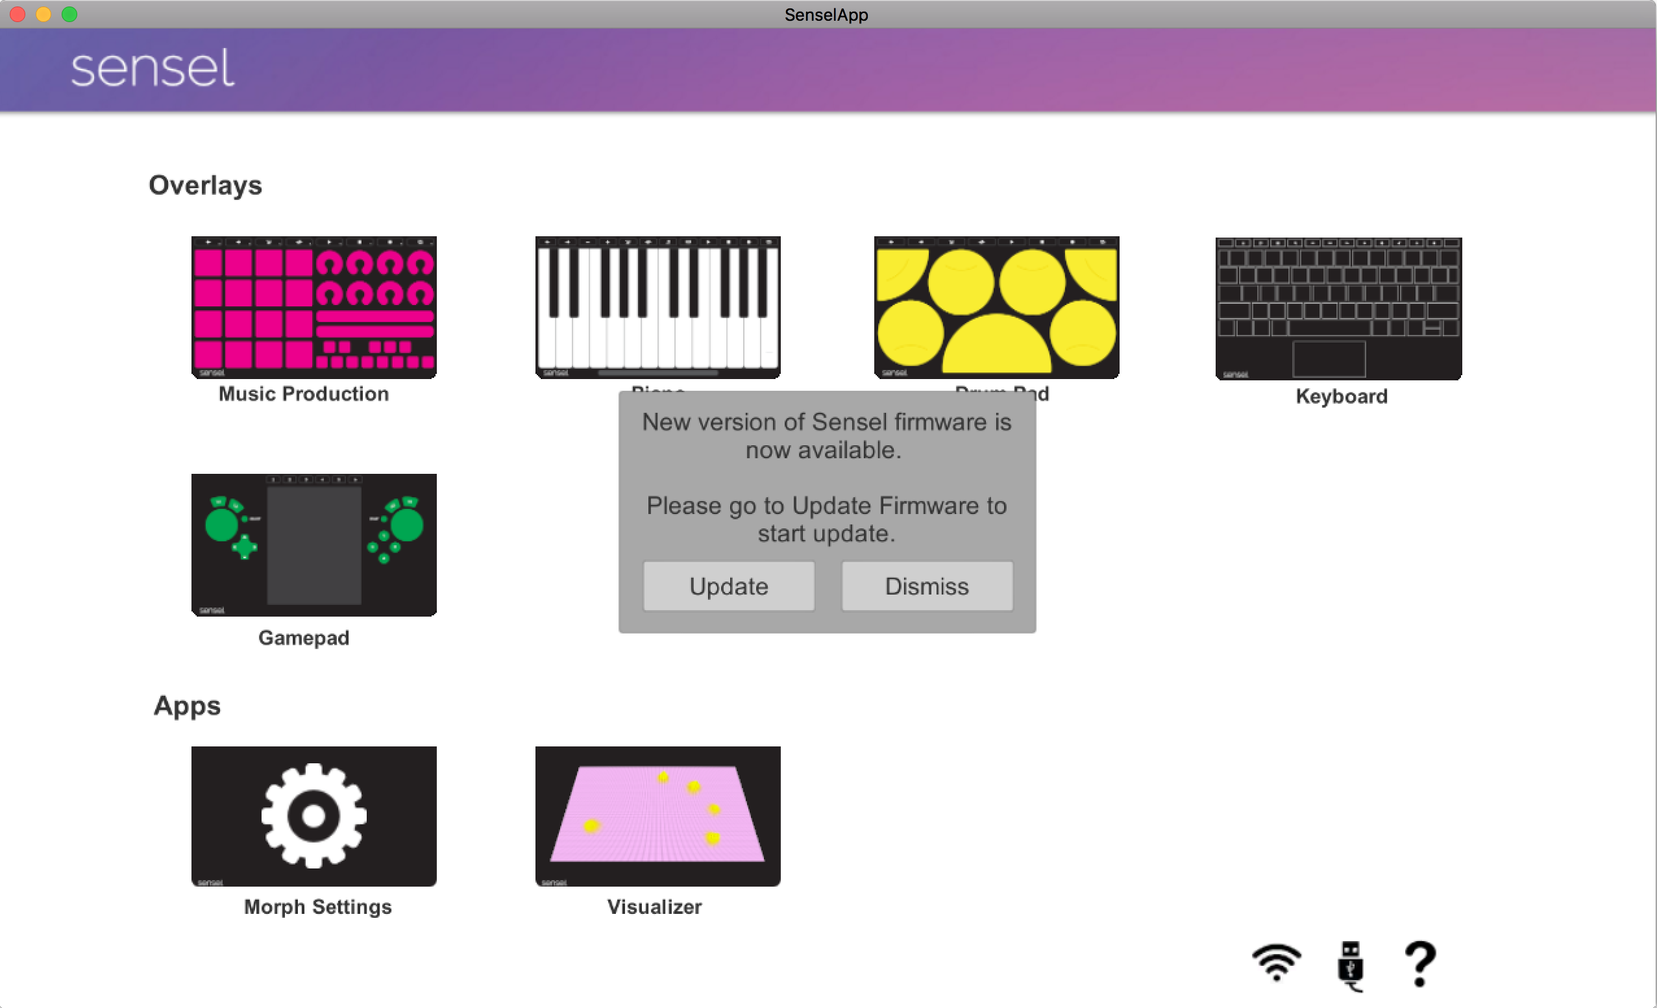
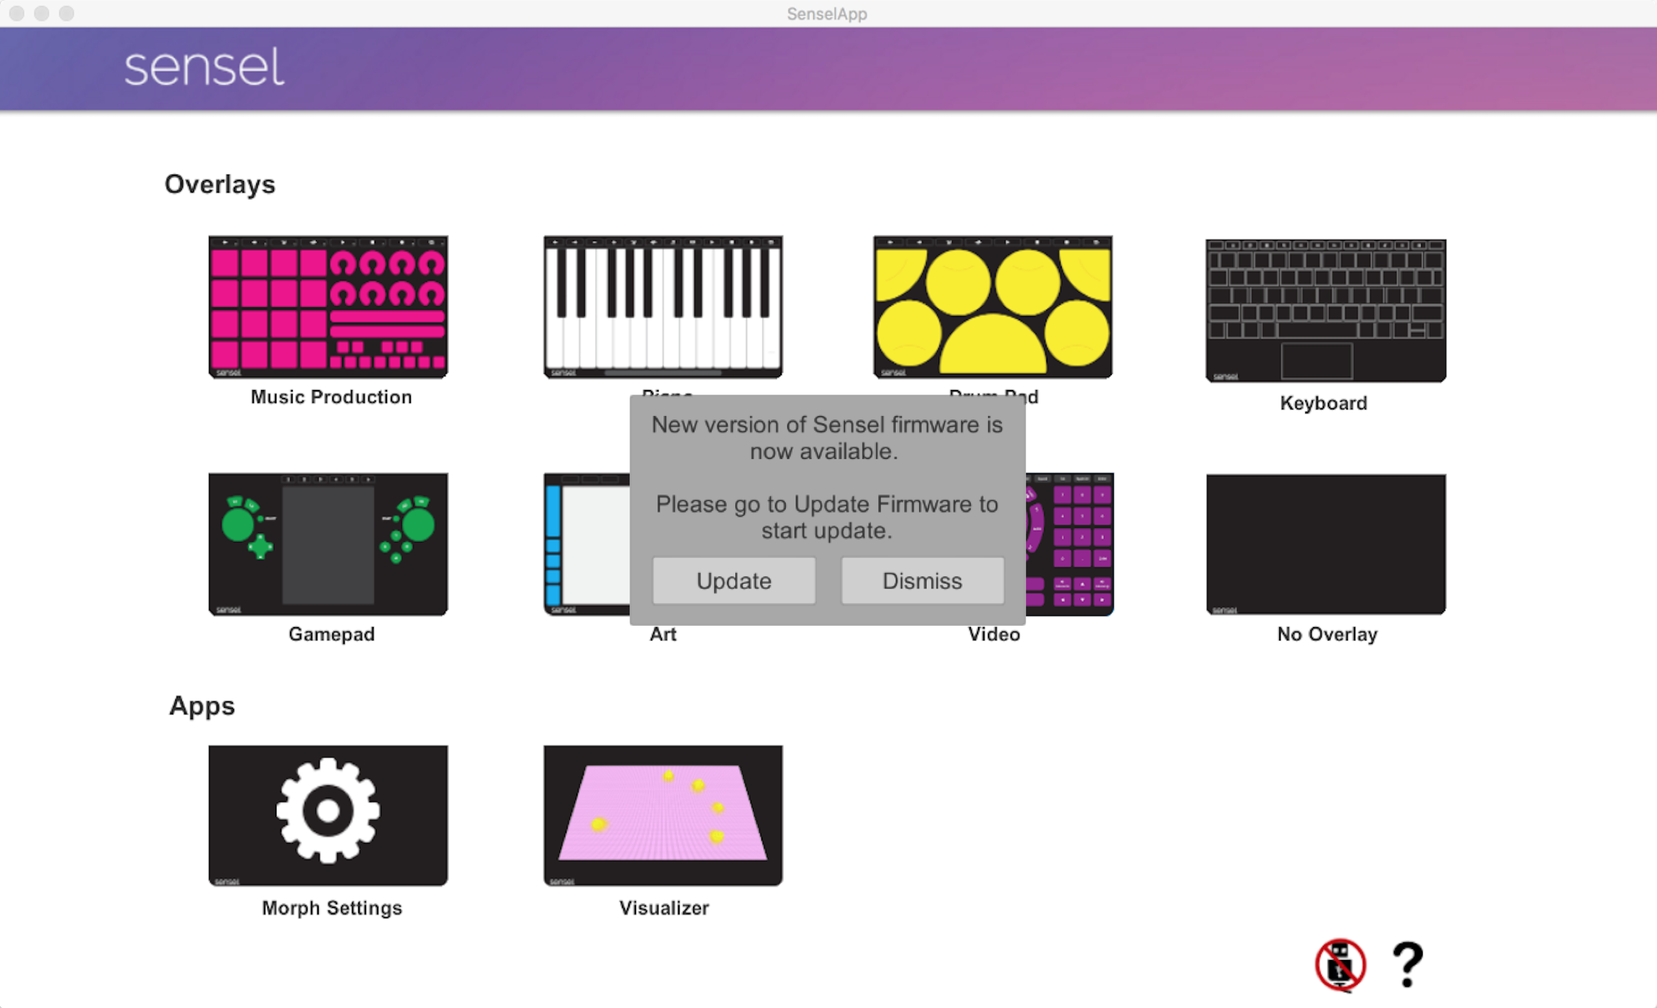
Video Editing Overlay Documentation
Video Editing Overlay Documentation, new Sensel App images, removed wifi symbol, reorganized morph, added advanced to menu

diff --git a/docs/morph.md b/docs/morph.md
@@ -140,67 +140,6 @@ The black surface of the pressure sensor is made of durable PET (Polyethylene Te
 
 Thickness measurements are with the rubber feet. Subtract 0.75 mm for thickness measurements without the rubber feet.
 
-## SenselApp Software
-The Sensel App is used to flash firmware, configure, calibrate, and confirm the functions of the Morph. You can also use it to customize and re-map button functionality on your Overlays. Download the software for Windows or macOS from the [Sensel website](http://sensel.com/start).
-
-In order to use any of the features in the Sensel App, you'll need to have a wired connection between your Morph and computer. A wireless connection is not sufficient for working with the Sensel App.
-
-### Home
-The home page of the Sensel App allows you to select a task. You can edit the output of Overlays, update firmware, and visualize the raw data from pressure input on the Morph.
-
-![Sensel Sensel App home](img/morphapp_home.jpg)
-
-### Icons
-You'll notice 2-3 icons in the bottom right of the application window. Here's what they mean:
-
-* ![Sensel Sensel App home](img/morph_app_icon_wifi.jpg) - active wifi connection for updating app and firmware
-* ![Sensel Sensel App home](img/morph_app_icon_usb.jpg) - active usb connection with Morph
-* ![Sensel Sensel App home](img/morph_app_icon_help.jpg) - load help for app
-
-If there's a red circle and slash, it means the connection is inactive or broken. If you have the Morph connected via USB and you see a red circle/slash over the USB icon, double check your USB connection or try a different cable.
-
-### Overlay Mapper
-
-#### Music Overlays
-![Sensel Morph Overlay mapper edits settings](img/morphapp_editmidi.jpg)
-
-The Music Production, Drum, and Piano Overlays can be completely modified from their default settings to work however you’d like them to.
-
-When you select a music Overlay from the Sensel App, you'll open a screen where you can click on the different buttons or regions to modify the MIDI notes sent from the pads. 
-
-Use the inspector's menu to select a different note value for each pad you want to change. You can save the settings to a map preset. 
-
-When finished editing, be sure to click "Send Map to Morph" to modify the settings.
-
-#### QWERTY (+ AZERTY and DVORAK) Overlay
-![Sensel Morph Keyboard Overlay editor](img/morphapp_editqwerty.jpg)
-
-In a way, the mapper for the QWERTY Overlay is very similar to the music editors. However, instead of modifying MIDI notes, you are modifying the key event codes from each stroke. A list of keyboard codes can be found at [this link.](https://en.wikipedia.org/wiki/ASCII#Code_chart)
-
-<!-- More importantly, the QWERTY Overlay mapper allows you to set the operating system preference, which impacts how the control, option, command, and function keys will behave on the Overlay. Use the menu to set your preference and click "Send to Morph". -->
-
-##### Set Keyboard Layout
-The Morph will detect the Overlay attached to the device, but you will need to change the desired layout for each computer or smartphone. Following are some external links to guides (and opinions) on changing your keyboard layout for different operating systems:
-
-* [Windows 10](http://www.windowscentral.com/how-change-your-keyboard-layout-windows-10)
-* [macOS](http://atmac.org/dvorak-keyboard-layouts-easier-on-the-fingers)
-* [Ubuntu](http://www.wikihow.com/Change-Keyboard-Layout-in-Ubuntu)
-* [Android](https://rietta.com/blog/2013/09/20/is-the-colemak-or-dvorak-keyboard-layout-best-for-you/)
-* [iOS](https://www.igeeksblog.com/how-to-change-keyboard-layout-on-iphone-and-ipad/)
-
-#### Gamepad Overlay
-![Sensel Morph Gamepad Overlay editor](img/morphapp_editgame.jpg)
-
-Some games support HID gamepad events without any emulation, but do not let you customize the button values in the game. As a result, the controller might work, but the buttons all do the wrong thing! The Sensel App lets you change the HID gamepad value for each button of the Gamepad Overlay so the controls can match the gameplay.
-
-### Visualizer
-![Sensel Morph Overlay editor](img/morphapp_viz.jpg)
-Use the Visualizer to view the raw pressure information coming from the Morph's sensor. The visualizer is more than entertaining, it's a look behind the scenes of what happens when you are using the Morph. 
-
-You can see the effects of using different materials between a stylus (or some other actuator, like a finger) and pressure surface. You can even see that very sharp styli won't generate much of a pressure reading, and benefit greatly from a material or overlay. 
-
-The curious and creative user will find great satisfaction in the Visualizer!
-
 ## Overlays
 
 ### QWERTY
@@ -235,6 +174,47 @@ The 16 Pad grid sends on MIDI Channel 2, the controls send on MIDI Channel 2, th
 
 The play, stop, and record buttons send MIDI Machine Control (MMC) commands to enable those features. Some software products, such as Ableton Live, do not recognize MMC, so they will seem to not work in those cases.
 
+### Video Editing
+
+![Sensel Morph Video Editing Overlay callouts](img/overlay_video.jpg)
+
+#### Overview
+
+The Video Editing Overlay is a control surface that sends keyboard and mouse events to enable professional video editing.
+
+#### Setup
+
+By default, the Sensel Morph works with Adobe Premiere on Windows. For Premiere on macOS, the macOS Sensel App contains the macOS mapping which can be sent to the Morph. Open the Video overlay in the Sensel App and click the "Send Map to Morph" button to send the Map. 
+
+If you require a specific mapping for your program, you can use the Sensel App to create your own mappings for each program.
+
+If you are using Premiere CC, you may need to add a keyboard shortcut in Premiere to change focus to the timeline panel, which has been removed in some versions. By default, the Sensel Morph will send Shift+3 when you click the timeline button. 
+
+No driver is required for the Video Editing Overlay.
+
+#### Controls
+
+##### Jog Wheel and Navigation Controls
+
+The central Jog Wheel and surrounding navigation controls serve as the primary means of moving along a video timeline. 
+
+The Jog Wheel moves one frame for each of the eight detents around the knob. You can modify the speed of the jog wheel by pressing the modifier keys.
+
+The Shuttle Buttons are pressure sensitive buttons that repeatedly press a key at different pressure levels, allowing you to shuttle quickly along the timeline. When you release the Shuttle Button, a halt key is sent. In Premiere, J or L is sent as you push on the Shuttle Button and K is sent when you release the Shuttle Button.
+
+The Video, Audio, and Zoom sliders all send key events as you move along the slider. In Premiere, the sliders adjust the size of the video, audio, and zoom of the timeline elements. 
+The Navigation Slider is a slider that sends scroll events for moving along the timeline. In Premiere, the timeline requires you to click on the timeline before you can scroll. The Navigation Slider is not remappable.
+
+The other buttons in the central navigation area all send key events that are used to move through the timeline.
+
+##### Jog Wheel Modifiers
+
+The Jog Wheel Modifiers change the function of the Jog Wheel while you hold down the buttons. By default, these modifiers are set to Slip, Slide, and Nudge in Premiere and can be customized using the Sensel App.
+
+##### Other Control Buttons
+
+The rest of the control buttons on the Video Editing Overlay send key commands that can be customized using the Sensel App. 
+
 ### Gaming
 ![Sensel Morph Gaming Overlay callouts](img/overlay_gaming_callouts.jpg)
 
@@ -264,9 +244,6 @@ Some browsers support gamepad input using the Gamepad API. Gamepad support can b
 
 ##### Bluetooth
 Gamepad-over-Bluetooth will be supported in future releases.
-
-### Media Editing
-The Media Editing Overlay is used for editing video and sound.
 
 ### Art
 ![Sensel Morph Art Overlay callouts](img/overlay_art_callouts.jpg)
@@ -316,86 +293,6 @@ All buttons are re-mappable with the SenselApp. Default behaviors provide popula
 * **Function Buttons** - are available for your most common functions. By default these three buttons are are mapped to Shift, Command, and Option in OS X and Shift, Ctrl, and Alt in Windows.
 * **Navigation Button** - is mapped to the spacebar for easy navigation in Adobe products.
 
-#### Art Software Setups
-The basic strategy behind setting up your software to work with the Morph is to understand what parameters come from the Morph and how to apply them to brush properties. In general, there are three dimensions that come from a USB stylus tablet: **Pressure**, **Tilt**, and **Rotation** (or Bearing). 
-
-In Morph's unique Brush Mode, you want your software brush to adapt to the size of the brush or stylus you are applying to the Morph. This is reported on the "Tilt" channel, since traditional tablets use tilt to affect brush size. Pressure is best mapped to the brush opacity to emulate paint or ink density. Rotation is ideally mapped to brush angle when using software brushes that are non-round. 
-
-Using the Stylus Mode, you can map Pressure and Rotation to your brushes, however, there is no Tilt reported from the Morph. 
-
-##### Corel Painter
-[Corel Painter](http://corel.com) offers a vast array of options for brushes, allowing for models of oils, gels, inks, charcoal, airbrush, and more. These settings are created in the Brushes Control Panel, which has several sub-tabs for the various properties. 
-
-The first thing you'll need to do is make sure you have the correct tablet type selected in Corel's preferences. Go to the **Edit** menu and select **Preferences**, then select the **Tablet** panel. Make sure **"RTS-compatible Device"** is selected:
-
-![Corel Painter Brush Controls](img/overlay_art_corel_tabletprefs.jpg)
-
-Now you are ready to modify your brushes. Open the Brush control panel from the **Window->Brushes Control Panels->General** menu, or use **CTL-b**. 
-As an example, you can quickly set up a brush for Morph's brush mode using:
-* Dab type: flat
-* Opacity Expression to Pressure
-* Size Expression to Tilt
-* Angle Expression to Bearing
-
-![Corel Painter Brush Controls](img/overlay_art_corel_brushes.jpg)
-
-You may also want to refine the "feel" of your brush with the Brush Tracking curves. Go to **Edit->Preferences->Brush Tracking** and follow the instructions to make a brush feel natural.
-
-![Corel Painter Brush Controls](img/overlay_art_corel_brush_tracking.jpg)
-
-##### Adobe Photoshop
-[Adobe Photoshop](http://adobe.com/photoshop) of course goes beyond photo editing and provides several options for modelling different art media - airbrush, oils, watercolors, and more. 
-
-Select the Brush tool from Photoshop's tools pallete:
-
-![Adobe Photoshop Tools](img/overlay_art_ps_tools.jpg)
-
-Now you can open the Brush window from the Windows menu and use the Shape Dynamics and Transfer brush properties to apply the Morph's Pressure and Rotation to the brush:
-
-![Adobe Photoshop Tools](img/overlay_art_ps_rotation.jpg)
-![Adobe Photoshop Tools](img/overlay_art_ps_pressure.jpg)
-
-Depending on the desired effect, pressure can be applied to Opacity or Flow. 
-
-##### Adobe Illustrator
-[Adobe Illustrator](http://adobe.com/illustrator)
-
-Adobe Illustrator is a fully featured illustration program, with several different brush options and types. Depending on the chosen brush, there are different places to set up the Morph's Pressure, Rotation, and Tilt data. Below are screen caps of several places you can setup your Morph to interact directly with Brush properties. As you'll see, these options are generally found by double-clicking on the brush in the Brush Window.:
-
-First, be aware that there are a couple different types of brush in Illustrator: the Paintbrush and the Blob Brush.
-
-![Adobe Illustrator](img/overlay_art_ai_brushtypes.jpg)
-
-Brush selection happens in the Brush Library and Brushes windows. If the Paintbrush is selected (not Blob Brush), you can access the Brush Options from the Brush window hamburger menu:
-
-[Adobe Illustrator](img/overlay_art_ai_brushes_opt.jpg)
-
-Double clicking on the top brushes in the brush window opens up the Caligraphic Options:
-
-![Adobe Illustrator](img/overlay_art_ai_calig_options.jpg)
-
-Double clicking on an Art Brush in the brush window opens up Art Brush Options:
-
-![Adobe Illustrator](img/overlay_art_ai_artbrush_options.jpg)
-
-If the Blob Brush is selected in Illustrator's tools, double clicking on that will pull up some more options
-
-![Adobe Illustrator](img/overlay_art_ai_blob_options.jpg)
-
-##### Sketchbook Pro
-
-For the most part, Sketchbook only responds to the Pressure and Tilt parameters from a tablet. You can create a new brush using the Circle menu in the Brush Library:
-
-![Autodesk Sketchbook Pro](img/overlay_art_skbook_newbrush.jpg)
-
-Then, double-click on the new brush (or an existing one), and modify its properties. In this example, the minimum and maximum values for size, opacity, and flow have been modified to respond to pressure. Set min and max to the same value to have the parameter unaffected by pressure.
-
-![Autodesk Sketchbook Pro](img/overlay_art_skbook_pressure.jpg)
-
-Some brushes will respond to tilt, which the Morph uses to send stylus size in Brush Mode. You can use this parameter in some brushes to interesting effect:
-
-![Autodesk Sketchbook Pro](img/overlay_art_skbook_tilt.jpg)
-
 <!-- 
 Lightroom
 GIMP
@@ -407,6 +304,67 @@ Clipstudio Paint
 ![Sensel Morph Innovator Overlay callouts](img/overlay_innovator_callouts.jpg)
 
 Your turn to make an Overlay! The Innovator's Kit works with the API. Included in the Kit is a simple UART cable which turns the microUSB port on the Morph into a UART connection for microcontrollers.
+
+
+## SenselApp Software
+The Sensel App is used to flash firmware, configure, calibrate, and confirm the functions of the Morph. You can also use it to customize and re-map button functionality on your Overlays. Download the software for Windows or macOS from the [Sensel website](http://sensel.com/start).
+
+In order to use any of the features in the Sensel App, you'll need to have a wired connection between your Morph and computer. A wireless connection is not sufficient for working with the Sensel App.
+
+### Home
+The home page of the Sensel App allows you to select a task. You can edit the output of Overlays, update firmware, and visualize the raw data from pressure input on the Morph.
+
+![Sensel Sensel App home](img/morphapp_home.jpg)
+
+### Icons
+You'll notice 2 icons in the bottom right of the application window. Here's what they mean:
+
+* ![Sensel Sensel App home](img/morph_app_icon_usb.jpg) - active usb connection with Morph
+* ![Sensel Sensel App home](img/morph_app_icon_help.jpg) - load help for app
+
+If there's a red circle and slash, it means the connection is inactive or broken. If you have the Morph connected via USB and you see a red circle/slash over the USB icon, double check your USB connection or try a different cable.
+
+### Overlay Mapper
+
+#### Music Overlays
+![Sensel Morph Overlay mapper edits settings](img/morphapp_editmidi.jpg)
+
+The Music Production, Drum, and Piano Overlays can be completely modified from their default settings to work however you’d like them to.
+
+When you select a music Overlay from the Sensel App, you'll open a screen where you can click on the different buttons or regions to modify the MIDI notes sent from the pads. 
+
+Use the inspector's menu to select a different note value for each pad you want to change. You can save the settings to a map preset. 
+
+When finished editing, be sure to click "Send Map to Morph" to modify the settings.
+
+#### QWERTY (+ AZERTY and DVORAK) Overlay
+![Sensel Morph Keyboard Overlay editor](img/morphapp_editqwerty.jpg)
+
+In a way, the mapper for the QWERTY Overlay is very similar to the music editors. However, instead of modifying MIDI notes, you are modifying the key event codes from each stroke. A list of keyboard codes can be found at [this link.](https://en.wikipedia.org/wiki/ASCII#Code_chart)
+
+<!-- More importantly, the QWERTY Overlay mapper allows you to set the operating system preference, which impacts how the control, option, command, and function keys will behave on the Overlay. Use the menu to set your preference and click "Send to Morph". -->
+
+##### Set Keyboard Layout
+The Morph will detect the Overlay attached to the device, but you will need to change the desired layout for each computer or smartphone. Following are some external links to guides (and opinions) on changing your keyboard layout for different operating systems:
+
+* [Windows 10](http://www.windowscentral.com/how-change-your-keyboard-layout-windows-10)
+* [macOS](http://atmac.org/dvorak-keyboard-layouts-easier-on-the-fingers)
+* [Ubuntu](http://www.wikihow.com/Change-Keyboard-Layout-in-Ubuntu)
+* [Android](https://rietta.com/blog/2013/09/20/is-the-colemak-or-dvorak-keyboard-layout-best-for-you/)
+* [iOS](https://www.igeeksblog.com/how-to-change-keyboard-layout-on-iphone-and-ipad/)
+
+#### Gamepad Overlay
+![Sensel Morph Gamepad Overlay editor](img/morphapp_editgame.jpg)
+
+Some games support HID gamepad events without any emulation, but do not let you customize the button values in the game. As a result, the controller might work, but the buttons all do the wrong thing! The Sensel App lets you change the HID gamepad value for each button of the Gamepad Overlay so the controls can match the gameplay.
+
+### Visualizer
+![Sensel Morph Overlay editor](img/morphapp_viz.jpg)
+Use the Visualizer to view the raw pressure information coming from the Morph's sensor. The visualizer is more than entertaining, it's a look behind the scenes of what happens when you are using the Morph. 
+
+You can see the effects of using different materials between a stylus (or some other actuator, like a finger) and pressure surface. You can even see that very sharp styli won't generate much of a pressure reading, and benefit greatly from a material or overlay. 
+
+The curious and creative user will find great satisfaction in the Visualizer!
 
 ## Bluetooth connection
 The Sensel Morph is a Bluetooth 4.0 LE wireless device. This means it can function as a wireless controller for your music, drawing, or writing.
@@ -709,6 +667,86 @@ Select the "Sync" tab and add the Sensel Morph to at least one of the External C
 ![Propellerheads Reason Channel Direction for Sensel Morph Bluetooth connection](img/reason_blemidi_hw.jpg)
 
 Now you can use the Hardware device in the Reason Rack and click the *ADVANCED MIDI* button to expose the selectors. It is here that you can map MIDI channels (and thereby different Overlays) from the Morph to different devices in your rack.
+
+### Art Software Setups
+The basic strategy behind setting up your software to work with the Morph is to understand what parameters come from the Morph and how to apply them to brush properties. In general, there are three dimensions that come from a USB stylus tablet: **Pressure**, **Tilt**, and **Rotation** (or Bearing). 
+
+In Morph's unique Brush Mode, you want your software brush to adapt to the size of the brush or stylus you are applying to the Morph. This is reported on the "Tilt" channel, since traditional tablets use tilt to affect brush size. Pressure is best mapped to the brush opacity to emulate paint or ink density. Rotation is ideally mapped to brush angle when using software brushes that are non-round. 
+
+Using the Stylus Mode, you can map Pressure and Rotation to your brushes, however, there is no Tilt reported from the Morph. 
+
+#### Corel Painter
+[Corel Painter](http://corel.com) offers a vast array of options for brushes, allowing for models of oils, gels, inks, charcoal, airbrush, and more. These settings are created in the Brushes Control Panel, which has several sub-tabs for the various properties. 
+
+The first thing you'll need to do is make sure you have the correct tablet type selected in Corel's preferences. Go to the **Edit** menu and select **Preferences**, then select the **Tablet** panel. Make sure **"RTS-compatible Device"** is selected:
+
+![Corel Painter Brush Controls](img/overlay_art_corel_tabletprefs.jpg)
+
+Now you are ready to modify your brushes. Open the Brush control panel from the **Window->Brushes Control Panels->General** menu, or use **CTL-b**. 
+As an example, you can quickly set up a brush for Morph's brush mode using:
+* Dab type: flat
+* Opacity Expression to Pressure
+* Size Expression to Tilt
+* Angle Expression to Bearing
+
+![Corel Painter Brush Controls](img/overlay_art_corel_brushes.jpg)
+
+You may also want to refine the "feel" of your brush with the Brush Tracking curves. Go to **Edit->Preferences->Brush Tracking** and follow the instructions to make a brush feel natural.
+
+![Corel Painter Brush Controls](img/overlay_art_corel_brush_tracking.jpg)
+
+#### Adobe Photoshop
+[Adobe Photoshop](http://adobe.com/photoshop) of course goes beyond photo editing and provides several options for modelling different art media - airbrush, oils, watercolors, and more. 
+
+Select the Brush tool from Photoshop's tools pallete:
+
+![Adobe Photoshop Tools](img/overlay_art_ps_tools.jpg)
+
+Now you can open the Brush window from the Windows menu and use the Shape Dynamics and Transfer brush properties to apply the Morph's Pressure and Rotation to the brush:
+
+![Adobe Photoshop Tools](img/overlay_art_ps_rotation.jpg)
+![Adobe Photoshop Tools](img/overlay_art_ps_pressure.jpg)
+
+Depending on the desired effect, pressure can be applied to Opacity or Flow. 
+
+#### Adobe Illustrator
+[Adobe Illustrator](http://adobe.com/illustrator)
+
+Adobe Illustrator is a fully featured illustration program, with several different brush options and types. Depending on the chosen brush, there are different places to set up the Morph's Pressure, Rotation, and Tilt data. Below are screen caps of several places you can setup your Morph to interact directly with Brush properties. As you'll see, these options are generally found by double-clicking on the brush in the Brush Window.:
+
+First, be aware that there are a couple different types of brush in Illustrator: the Paintbrush and the Blob Brush.
+
+![Adobe Illustrator](img/overlay_art_ai_brushtypes.jpg)
+
+Brush selection happens in the Brush Library and Brushes windows. If the Paintbrush is selected (not Blob Brush), you can access the Brush Options from the Brush window hamburger menu:
+
+[Adobe Illustrator](img/overlay_art_ai_brushes_opt.jpg)
+
+Double clicking on the top brushes in the brush window opens up the Caligraphic Options:
+
+![Adobe Illustrator](img/overlay_art_ai_calig_options.jpg)
+
+Double clicking on an Art Brush in the brush window opens up Art Brush Options:
+
+![Adobe Illustrator](img/overlay_art_ai_artbrush_options.jpg)
+
+If the Blob Brush is selected in Illustrator's tools, double clicking on that will pull up some more options
+
+![Adobe Illustrator](img/overlay_art_ai_blob_options.jpg)
+
+#### Sketchbook Pro
+
+For the most part, Sketchbook only responds to the Pressure and Tilt parameters from a tablet. You can create a new brush using the Circle menu in the Brush Library:
+
+![Autodesk Sketchbook Pro](img/overlay_art_skbook_newbrush.jpg)
+
+Then, double-click on the new brush (or an existing one), and modify its properties. In this example, the minimum and maximum values for size, opacity, and flow have been modified to respond to pressure. Set min and max to the same value to have the parameter unaffected by pressure.
+
+![Autodesk Sketchbook Pro](img/overlay_art_skbook_pressure.jpg)
+
+Some brushes will respond to tilt, which the Morph uses to send stylus size in Brush Mode. You can use this parameter in some brushes to interesting effect:
+
+![Autodesk Sketchbook Pro](img/overlay_art_skbook_tilt.jpg)
 
 ## API
 There's a software API for Python, Processing, and C/C++. Find out more [at our github](http://github.com/sensel).
